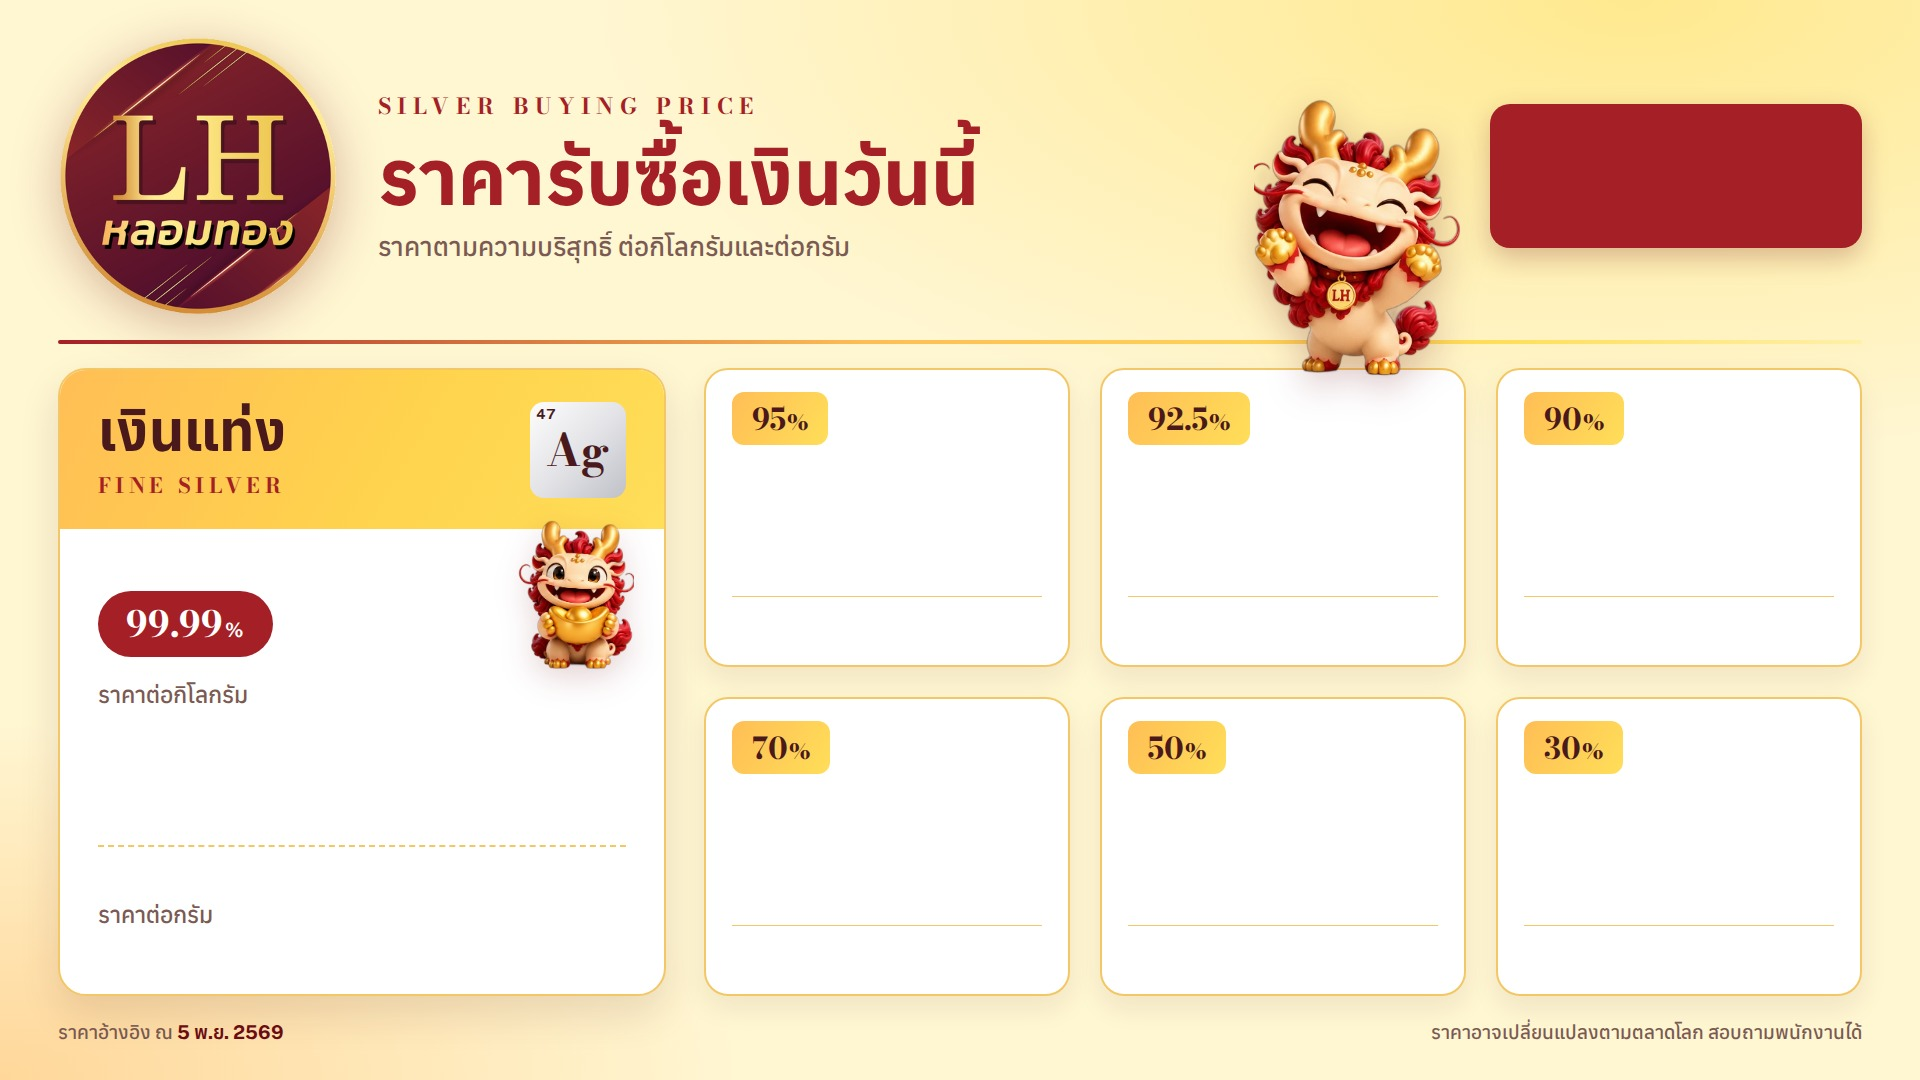
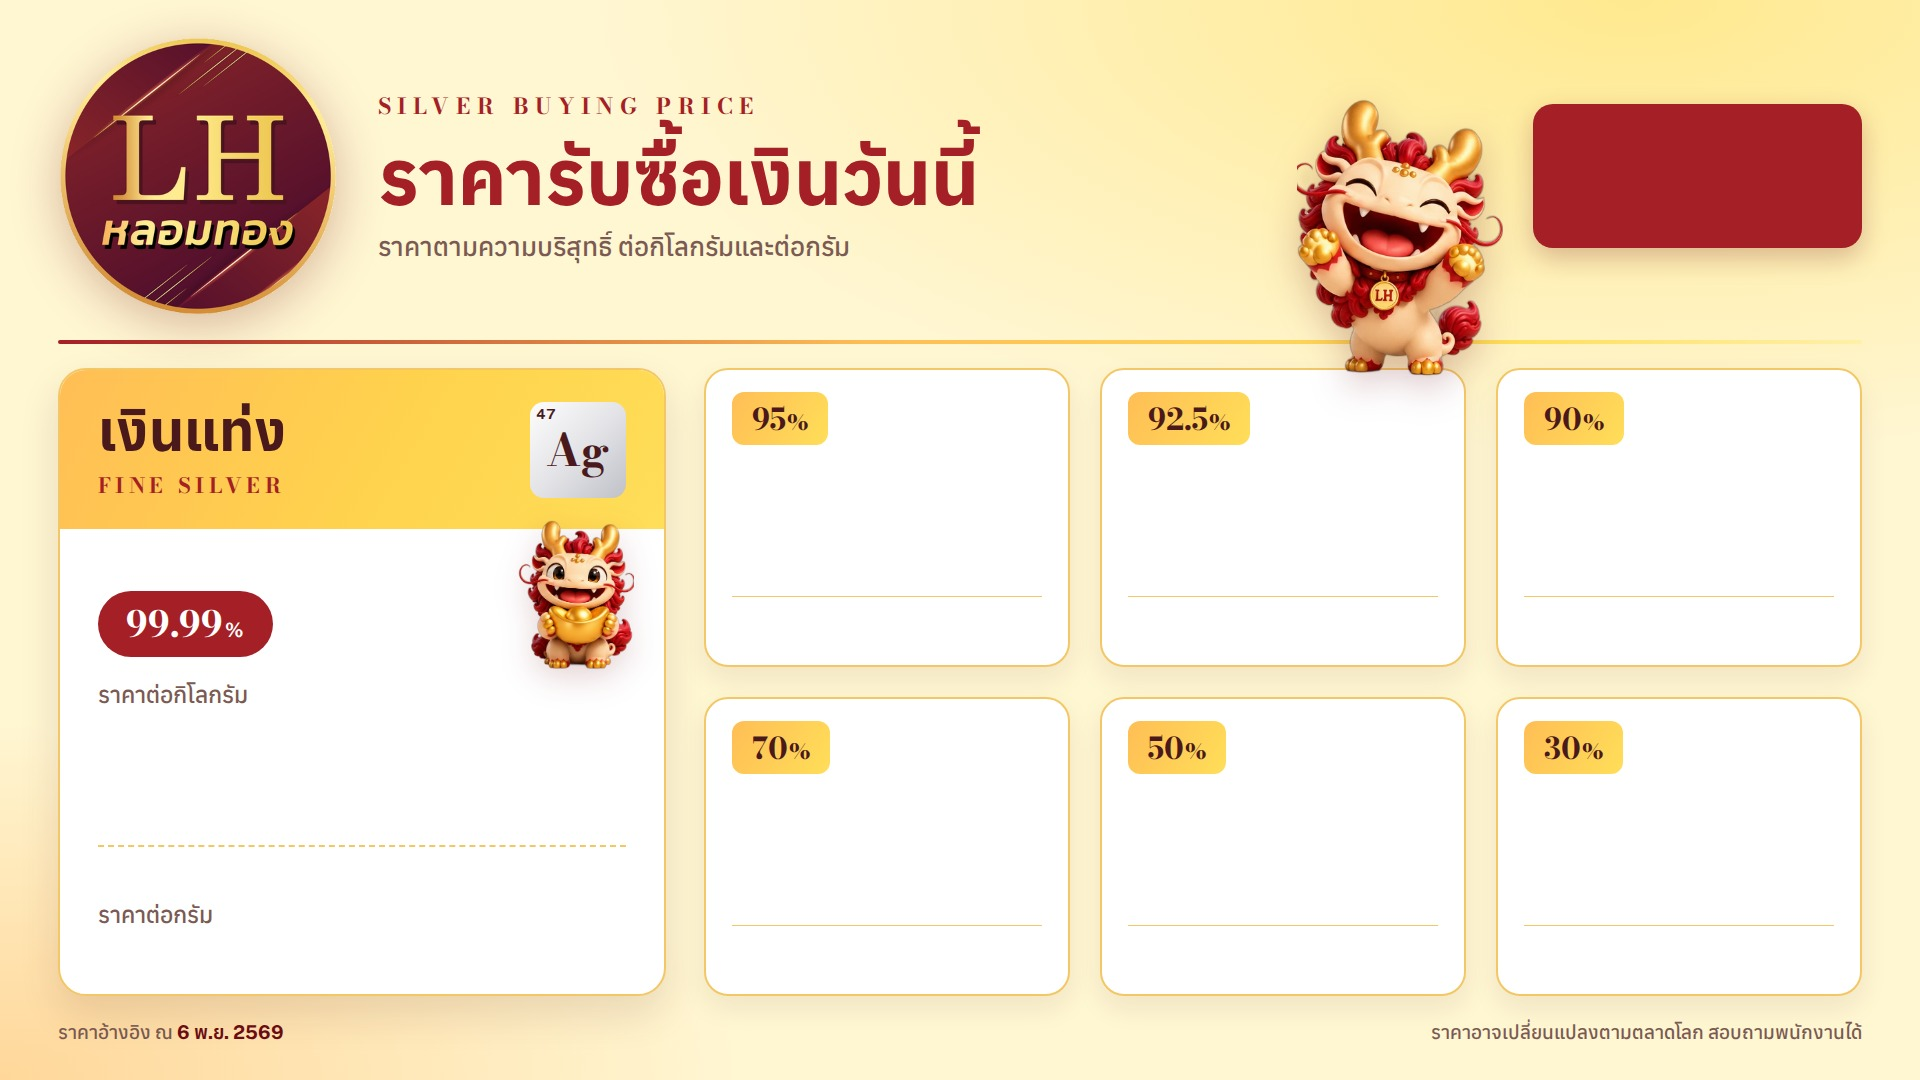
Update prices 2026-11-06

Changed region(s): [[0.6562, 0.0917, 0.8125, 0.3667]]

diff --git a/board.html b/board.html
@@ -219,14 +219,14 @@ html{-webkit-text-size-adjust:100%;text-size-adjust:100%}
      ราคาแต่ละเกรด = ราคาเงินหลังหัก × เปอร์เซ็นต์ (99.99% ใช้ราคาเต็ม)
    showSilver = เปิด/ปิดหน้าราคาเงิน, rotateSeconds = เปลี่ยนหน้าทุกกี่วินาที */
 const CONFIG = {
-  asOf: "5 พ.ย. 2569",
-  fx: 33.64,
+  asOf: "6 พ.ย. 2569",
+  fx: 33.44,
   discount: 0.20,
   rotateSeconds: 15,
   showSilver: true,
   metals: [
-    { th:"แพลตินัม",  en:"Platinum",  sym:"Pt", z:78, usdPerGram:48.9334 },
-    { th:"แพลเลเดียม", en:"Palladium", sym:"Pd", z:46, usdPerGram:32.2472 },
+    { th:"แพลตินัม",  en:"Platinum",  sym:"Pt", z:78, usdPerGram:48.7726 },
+    { th:"แพลเลเดียม", en:"Palladium", sym:"Pd", z:46, usdPerGram:32.5044 },
     { th:"โรเดียม",    en:"Rhodium",   sym:"Rh", z:45, usdPerGram:278.1, discount:0.40 }
   ],
   silver: { pricePerKg: 55000, grades: [95, 92.5, 90, 70, 50, 30] }
